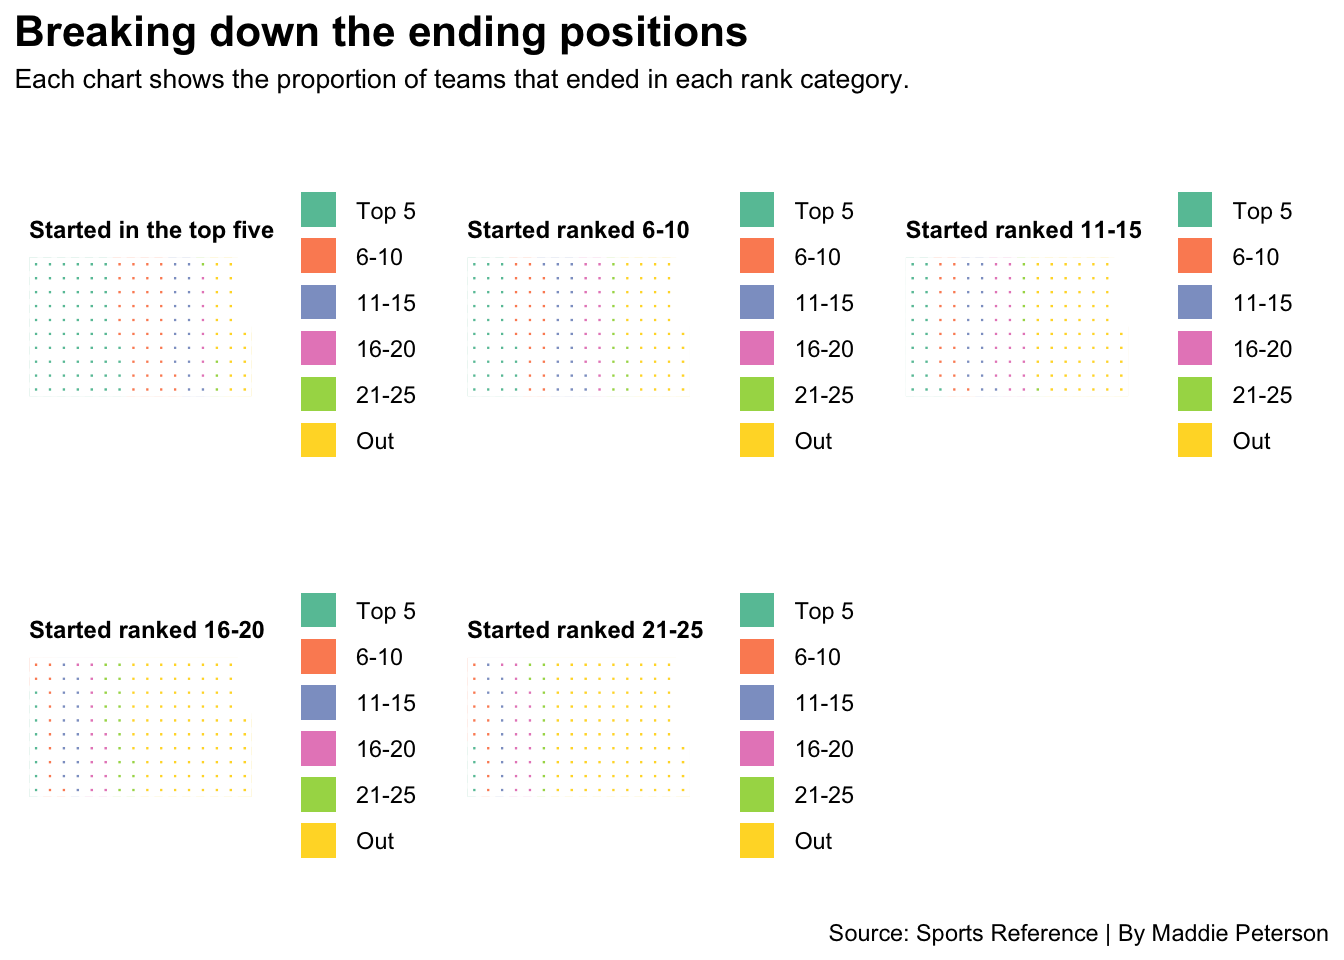
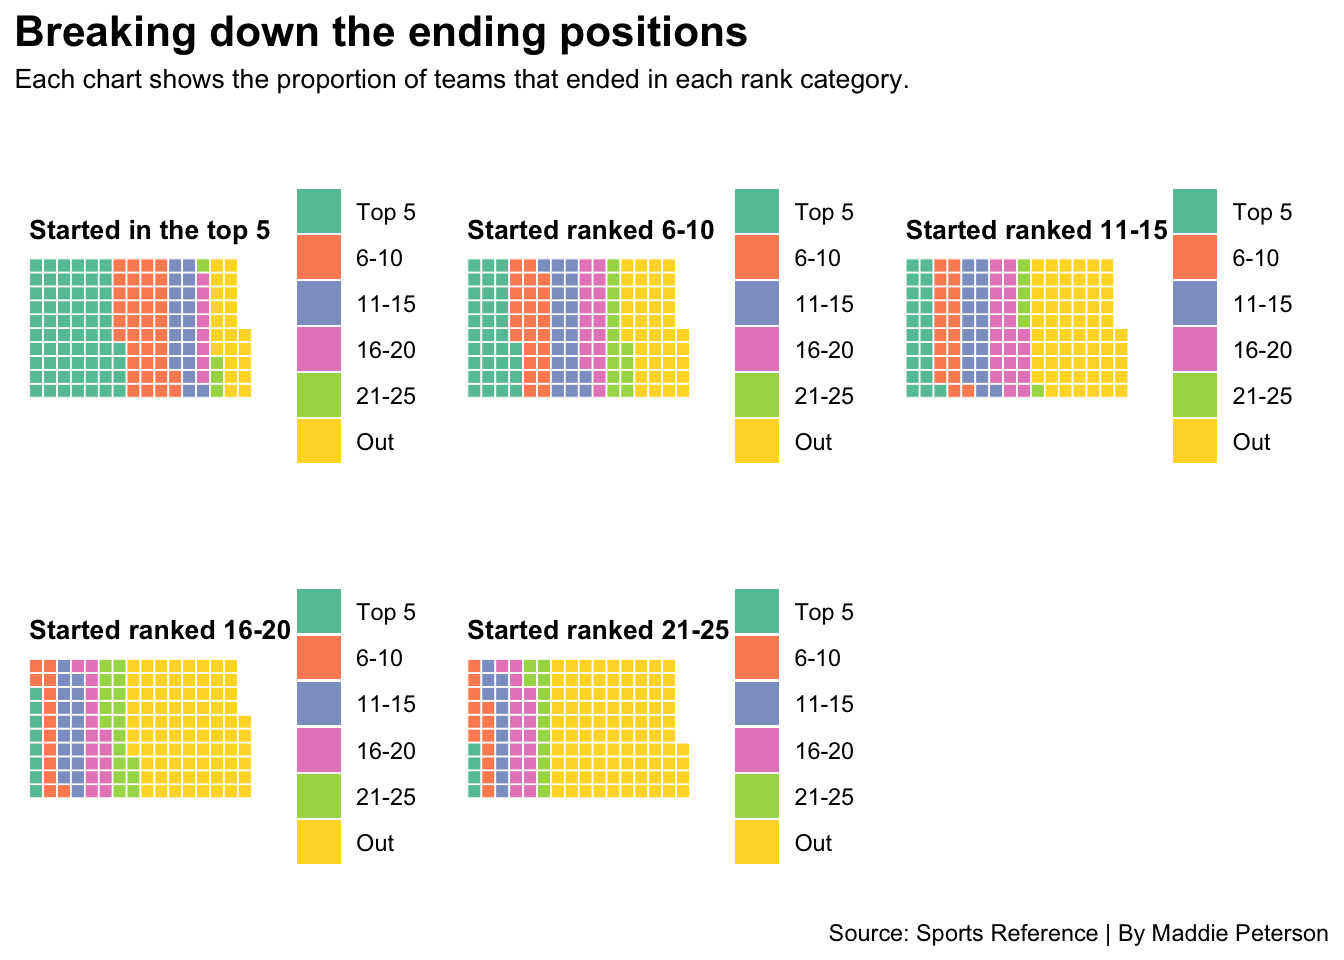
added waffle text

diff --git a/2021/04/17/breaking-down-the-accuracy-of-preseason-rankings/index.html b/2021/04/17/breaking-down-the-accuracy-of-preseason-rankings/index.html
@@ -62,7 +62,7 @@
 
   <article class="article">
     
-    <span class="article-duration">18 min read</span>
+    <span class="article-duration">19 min read</span>
     
 
     <h1 class="article-title">Breaking down the accuracy of preseason rankings</h1>
@@ -588,7 +588,7 @@ polls&lt;- read_csv(&quot;polls.csv&quot;)</code></pre>
   font-family: -apple-system, BlinkMacSystemFont, 'Segoe UI', Roboto, Oxygen, Ubuntu, Cantarell, 'Helvetica Neue', 'Fira Sans', 'Droid Sans', Arial, sans-serif;
 }
 
-#fozoelacpg .gt_table {
+#reaqymazbo .gt_table {
   display: table;
   border-collapse: collapse;
   margin-left: auto;
@@ -613,7 +613,7 @@ polls&lt;- read_csv(&quot;polls.csv&quot;)</code></pre>
   border-left-color: #D3D3D3;
 }
 
-#fozoelacpg .gt_heading {
+#reaqymazbo .gt_heading {
   background-color: #FFFFFF;
   text-align: center;
   border-bottom-color: #FFFFFF;
@@ -625,7 +625,7 @@ polls&lt;- read_csv(&quot;polls.csv&quot;)</code></pre>
   border-right-color: #D3D3D3;
 }
 
-#fozoelacpg .gt_title {
+#reaqymazbo .gt_title {
   color: #333333;
   font-size: 125%;
   font-weight: initial;
@@ -635,7 +635,7 @@ polls&lt;- read_csv(&quot;polls.csv&quot;)</code></pre>
   border-bottom-width: 0;
 }
 
-#fozoelacpg .gt_subtitle {
+#reaqymazbo .gt_subtitle {
   color: #333333;
   font-size: 85%;
   font-weight: initial;
@@ -645,13 +645,13 @@ polls&lt;- read_csv(&quot;polls.csv&quot;)</code></pre>
   border-top-width: 0;
 }
 
-#fozoelacpg .gt_bottom_border {
+#reaqymazbo .gt_bottom_border {
   border-bottom-style: none;
   border-bottom-width: 2px;
   border-bottom-color: #D3D3D3;
 }
 
-#fozoelacpg .gt_col_headings {
+#reaqymazbo .gt_col_headings {
   border-top-style: none;
   border-top-width: 2px;
   border-top-color: #D3D3D3;
@@ -666,7 +666,7 @@ polls&lt;- read_csv(&quot;polls.csv&quot;)</code></pre>
   border-right-color: #D3D3D3;
 }
 
-#fozoelacpg .gt_col_heading {
+#reaqymazbo .gt_col_heading {
   color: #333333;
   background-color: #FFFFFF;
   font-size: 100%;
@@ -686,7 +686,7 @@ polls&lt;- read_csv(&quot;polls.csv&quot;)</code></pre>
   overflow-x: hidden;
 }
 
-#fozoelacpg .gt_column_spanner_outer {
+#reaqymazbo .gt_column_spanner_outer {
   color: #333333;
   background-color: #FFFFFF;
   font-size: 100%;
@@ -698,15 +698,15 @@ polls&lt;- read_csv(&quot;polls.csv&quot;)</code></pre>
   padding-right: 4px;
 }
 
-#fozoelacpg .gt_column_spanner_outer:first-child {
+#reaqymazbo .gt_column_spanner_outer:first-child {
   padding-left: 0;
 }
 
-#fozoelacpg .gt_column_spanner_outer:last-child {
+#reaqymazbo .gt_column_spanner_outer:last-child {
   padding-right: 0;
 }
 
-#fozoelacpg .gt_column_spanner {
+#reaqymazbo .gt_column_spanner {
   border-bottom-style: none;
   border-bottom-width: 2px;
   border-bottom-color: #D3D3D3;
@@ -718,7 +718,7 @@ polls&lt;- read_csv(&quot;polls.csv&quot;)</code></pre>
   width: 100%;
 }
 
-#fozoelacpg .gt_group_heading {
+#reaqymazbo .gt_group_heading {
   padding: 8px;
   color: #333333;
   background-color: #FFFFFF;
@@ -740,7 +740,7 @@ polls&lt;- read_csv(&quot;polls.csv&quot;)</code></pre>
   vertical-align: middle;
 }
 
-#fozoelacpg .gt_empty_group_heading {
+#reaqymazbo .gt_empty_group_heading {
   padding: 0.5px;
   color: #333333;
   background-color: #FFFFFF;
@@ -755,15 +755,15 @@ polls&lt;- read_csv(&quot;polls.csv&quot;)</code></pre>
   vertical-align: middle;
 }
 
-#fozoelacpg .gt_from_md > :first-child {
+#reaqymazbo .gt_from_md > :first-child {
   margin-top: 0;
 }
 
-#fozoelacpg .gt_from_md > :last-child {
+#reaqymazbo .gt_from_md > :last-child {
   margin-bottom: 0;
 }
 
-#fozoelacpg .gt_row {
+#reaqymazbo .gt_row {
   padding-top: 8px;
   padding-bottom: 8px;
   padding-left: 5px;
@@ -782,7 +782,7 @@ polls&lt;- read_csv(&quot;polls.csv&quot;)</code></pre>
   overflow-x: hidden;
 }
 
-#fozoelacpg .gt_stub {
+#reaqymazbo .gt_stub {
   color: #333333;
   background-color: #FFFFFF;
   font-size: 100%;
@@ -794,7 +794,7 @@ polls&lt;- read_csv(&quot;polls.csv&quot;)</code></pre>
   padding-left: 12px;
 }
 
-#fozoelacpg .gt_summary_row {
+#reaqymazbo .gt_summary_row {
   color: #333333;
   background-color: #FFFFFF;
   text-transform: inherit;
@@ -804,7 +804,7 @@ polls&lt;- read_csv(&quot;polls.csv&quot;)</code></pre>
   padding-right: 5px;
 }
 
-#fozoelacpg .gt_first_summary_row {
+#reaqymazbo .gt_first_summary_row {
   padding-top: 8px;
   padding-bottom: 8px;
   padding-left: 5px;
@@ -814,7 +814,7 @@ polls&lt;- read_csv(&quot;polls.csv&quot;)</code></pre>
   border-top-color: #D3D3D3;
 }
 
-#fozoelacpg .gt_grand_summary_row {
+#reaqymazbo .gt_grand_summary_row {
   color: #333333;
   background-color: #FFFFFF;
   text-transform: inherit;
@@ -824,7 +824,7 @@ polls&lt;- read_csv(&quot;polls.csv&quot;)</code></pre>
   padding-right: 5px;
 }
 
-#fozoelacpg .gt_first_grand_summary_row {
+#reaqymazbo .gt_first_grand_summary_row {
   padding-top: 8px;
   padding-bottom: 8px;
   padding-left: 5px;
@@ -834,11 +834,11 @@ polls&lt;- read_csv(&quot;polls.csv&quot;)</code></pre>
   border-top-color: #D3D3D3;
 }
 
-#fozoelacpg .gt_striped {
+#reaqymazbo .gt_striped {
   background-color: rgba(128, 128, 128, 0.05);
 }
 
-#fozoelacpg .gt_table_body {
+#reaqymazbo .gt_table_body {
   border-top-style: none;
   border-top-width: 2px;
   border-top-color: #D3D3D3;
@@ -847,7 +847,7 @@ polls&lt;- read_csv(&quot;polls.csv&quot;)</code></pre>
   border-bottom-color: #D3D3D3;
 }
 
-#fozoelacpg .gt_footnotes {
+#reaqymazbo .gt_footnotes {
   color: #333333;
   background-color: #FFFFFF;
   border-bottom-style: none;
@@ -861,13 +861,13 @@ polls&lt;- read_csv(&quot;polls.csv&quot;)</code></pre>
   border-right-color: #D3D3D3;
 }
 
-#fozoelacpg .gt_footnote {
+#reaqymazbo .gt_footnote {
   margin: 0px;
   font-size: 90%;
   padding: 4px;
 }
 
-#fozoelacpg .gt_sourcenotes {
+#reaqymazbo .gt_sourcenotes {
   color: #333333;
   background-color: #FFFFFF;
   border-bottom-style: none;
@@ -881,46 +881,46 @@ polls&lt;- read_csv(&quot;polls.csv&quot;)</code></pre>
   border-right-color: #D3D3D3;
 }
 
-#fozoelacpg .gt_sourcenote {
+#reaqymazbo .gt_sourcenote {
   font-size: 90%;
   padding: 4px;
 }
 
-#fozoelacpg .gt_left {
+#reaqymazbo .gt_left {
   text-align: left;
 }
 
-#fozoelacpg .gt_center {
+#reaqymazbo .gt_center {
   text-align: center;
 }
 
-#fozoelacpg .gt_right {
+#reaqymazbo .gt_right {
   text-align: right;
   font-variant-numeric: tabular-nums;
 }
 
-#fozoelacpg .gt_font_normal {
+#reaqymazbo .gt_font_normal {
   font-weight: normal;
 }
 
-#fozoelacpg .gt_font_bold {
+#reaqymazbo .gt_font_bold {
   font-weight: bold;
 }
 
-#fozoelacpg .gt_font_italic {
+#reaqymazbo .gt_font_italic {
   font-style: italic;
 }
 
-#fozoelacpg .gt_super {
+#reaqymazbo .gt_super {
   font-size: 65%;
 }
 
-#fozoelacpg .gt_footnote_marks {
+#reaqymazbo .gt_footnote_marks {
   font-style: italic;
   font-size: 65%;
 }
 </style>
-<div id="fozoelacpg" style="overflow-x:auto;overflow-y:auto;width:auto;height:auto;"><table class="gt_table">
+<div id="reaqymazbo" style="overflow-x:auto;overflow-y:auto;width:auto;height:auto;"><table class="gt_table">
   <thead class="gt_header">
     <tr>
       <th colspan="3" class="gt_heading gt_title gt_font_normal" style="color: black; text-align: left; font-weight: bold;">If you start at the top, you can count on not ending at the top</th>
@@ -1129,6 +1129,7 @@ avgandmed&lt;-firstweeklastweek %&gt;% na.omit() %&gt;% group_by(`Rk.x`) %&gt;% 
     )</code></pre>
 <p><img src="http://petersonmaddie.github.io/2021/04/17/breaking-down-the-accuracy-of-preseason-rankings/index_files/figure-html/unnamed-chunk-8-1.png" width="672" />
 In this chart, the green dots are the preseason rank and the red dots are the average spot that the rank ends up. So for the preseason #1 team, they average ending as the fifth-ranked team. All of the top ten ranked teams average ending the season lower ranked than they start. The eleventh spot is where it flips and every team after that averages ending at a higher spot than they started. The 20th, 24th, and 25th lines look the longest, meaning that those spots average ending the farthest away from their starting rank.</p>
+<p>Finally, I created different rank groups to split the data up by their preseason rank and then see the proportion of where teams end. This will make a lot more sense when looking at the waffle chart below.</p>
 <pre class="r"><code>rankgroup&lt;-
   
 firstweeklastweek %&gt;%
@@ -1148,31 +1149,33 @@ PostSeasonRankGroup = case_when(
   is.na(Rk.y) ~ &quot;Out of Top 25&quot;
 )) %&gt;% group_by(PreseasonRankGroup, PostSeasonRankGroup) %&gt;% summarize(total=n()) %&gt;% arrange(PreseasonRankGroup)</code></pre>
 <pre><code>## `summarise()` has grouped output by &#39;PreseasonRankGroup&#39;. You can override using the `.groups` argument.</code></pre>
+<p>Below, I created vectors with the numbers that ended in each rank group and then created waffle charts to show the results.</p>
 <pre class="r"><code>top5 &lt;- c(&quot;Top 5&quot;=64, &quot;6-10&quot;=38, &quot;11-15&quot;=19, &quot;16-20&quot;=8, &quot;21-25&quot;=4, &quot;Out&quot;=22)
 `6-10`&lt;- c(&quot;Top 5&quot;=34, &quot;6-10&quot;=25, &quot;11-15&quot;=23, &quot;16-20&quot;=18, &quot;21-25&quot;=14, &quot;Out&quot;=41)
 `11-15`&lt;-c(&quot;Top 5&quot;=21, &quot;6-10&quot;=20, &quot;11-15&quot;=20, &quot;16-20&quot;=24, &quot;21-25&quot;=6, &quot;Out&quot;=64)
 `16-20`&lt;-c(&quot;Top 5&quot;=8, &quot;6-10&quot;=13, &quot;11-15&quot;=18, &quot;16-20&quot;=16, &quot;21-25&quot;=18, &quot;Out&quot;=83)
 `21-25`&lt;-c(&quot;Top 5&quot;=4, &quot;6-10&quot;=13, &quot;11-15&quot;=12, &quot;16-20&quot;=19, &quot;21-25&quot;=12, &quot;Out&quot;=94)</code></pre>
-<pre class="r"><code>w1 &lt;- waffle(top5, rows=10) +
-  labs(title=&quot;Started in the top five&quot;) + theme(
-     plot.title = element_text(size = 9, face = &quot;bold&quot;)
+<pre class="r"><code>w1 &lt;- waffle(top5, rows=10, size=0.3) +
+  labs(title=&quot;Started in the top 5&quot;) + theme(
+     plot.title = element_text(size = 10, face = &quot;bold&quot;)
   )
-w2 &lt;- waffle(`6-10`, rows=10) +
+w2 &lt;- waffle(`6-10`, rows=10, size=0.3) +
   labs(title=&quot;Started ranked 6-10&quot;)+ theme(
-     plot.title = element_text(size = 9, face = &quot;bold&quot;)
+     plot.title = element_text(size = 10, face = &quot;bold&quot;)
   )
-w3 &lt;- waffle(`11-15`, rows=10)+
+w3 &lt;- waffle(`11-15`, rows=10, size=0.3)+
   labs(title=&quot;Started ranked 11-15&quot;)+ theme(
-     plot.title = element_text(size = 9, face = &quot;bold&quot;)
+     plot.title = element_text(size = 10, face = &quot;bold&quot;)
   )
-w4 &lt;- waffle(`16-20`, rows=10)+
+w4 &lt;- waffle(`16-20`, rows=10, size=0.3)+
   labs(title=&quot;Started ranked 16-20&quot;)+ theme(
-     plot.title = element_text(size = 9, face = &quot;bold&quot;)
+     plot.title = element_text(size = 10, face = &quot;bold&quot;)
   )
-w5 &lt;- waffle(`21-25`, rows=10)+
+w5 &lt;- waffle(`21-25`, rows=10, size=0.3)+
   labs(title=&quot;Started ranked 21-25&quot;)+ theme(
-     plot.title = element_text(size = 9, face = &quot;bold&quot;)
+     plot.title = element_text(size = 10, face = &quot;bold&quot;)
   )</code></pre>
+<p>After creating five different waffle charts, I put them all together in one cowplot so you can efficiently see and compare all of the charts.</p>
 <pre class="r"><code>plot_grid(w1, w2, w3, w4,w5) +  labs(title = &quot;Breaking down the ending positions&quot;, subtitle= &quot;Each chart shows the proportion of teams that ended in each rank category.&quot;, y=&quot;&quot;,  caption=&quot;Source: Sports Reference | By Maddie Peterson&quot;) + theme_minimal() + 
   theme(
     plot.title = element_text(size = 16, face = &quot;bold&quot;),
@@ -1180,7 +1183,9 @@ w5 &lt;- waffle(`21-25`, rows=10)+
     plot.subtitle = element_text(size=10), 
     panel.grid.minor = element_blank()
     )</code></pre>
-<p><img src="http://petersonmaddie.github.io/2021/04/17/breaking-down-the-accuracy-of-preseason-rankings/index_files/figure-html/unnamed-chunk-12-1.png" width="672" /></p>
+<p><img src="http://petersonmaddie.github.io/2021/04/17/breaking-down-the-accuracy-of-preseason-rankings/index_files/figure-html/unnamed-chunk-12-1.png" width="672" />
+And here are the results. There’s a couple things I notice right away. The AP preseason poll seems to be decently good at predicting the top five teams. We can see that a majority of the teams that start in the top five, also end in the top five. The accuracy decreases when you move to teams ranked 6th-10th. More teams that start there end outside of the top 25 than end in the 6-10. For the remaining rank groups, you’ll notice the same thing. Most teams that start in the groups end outside the top 25.</p>
+<p>So are preseason polls trustworthy? I guess that’s up to you! Their accuracy within the top five gives me a bit of confidence in it. However, we saw with the first chart that they’re not so good at predicting the National Champion. I can say that after these conclusions, I am going to try my hardest to stop drinking the preseason Kool-Aid and wait until the fall to make actual observations. I cannot guarantee that will actually be the case, though. I’m a sucker for Huskers hype, even if it means being crushed later on during the season.</p>
 
     </div>
   </article>
